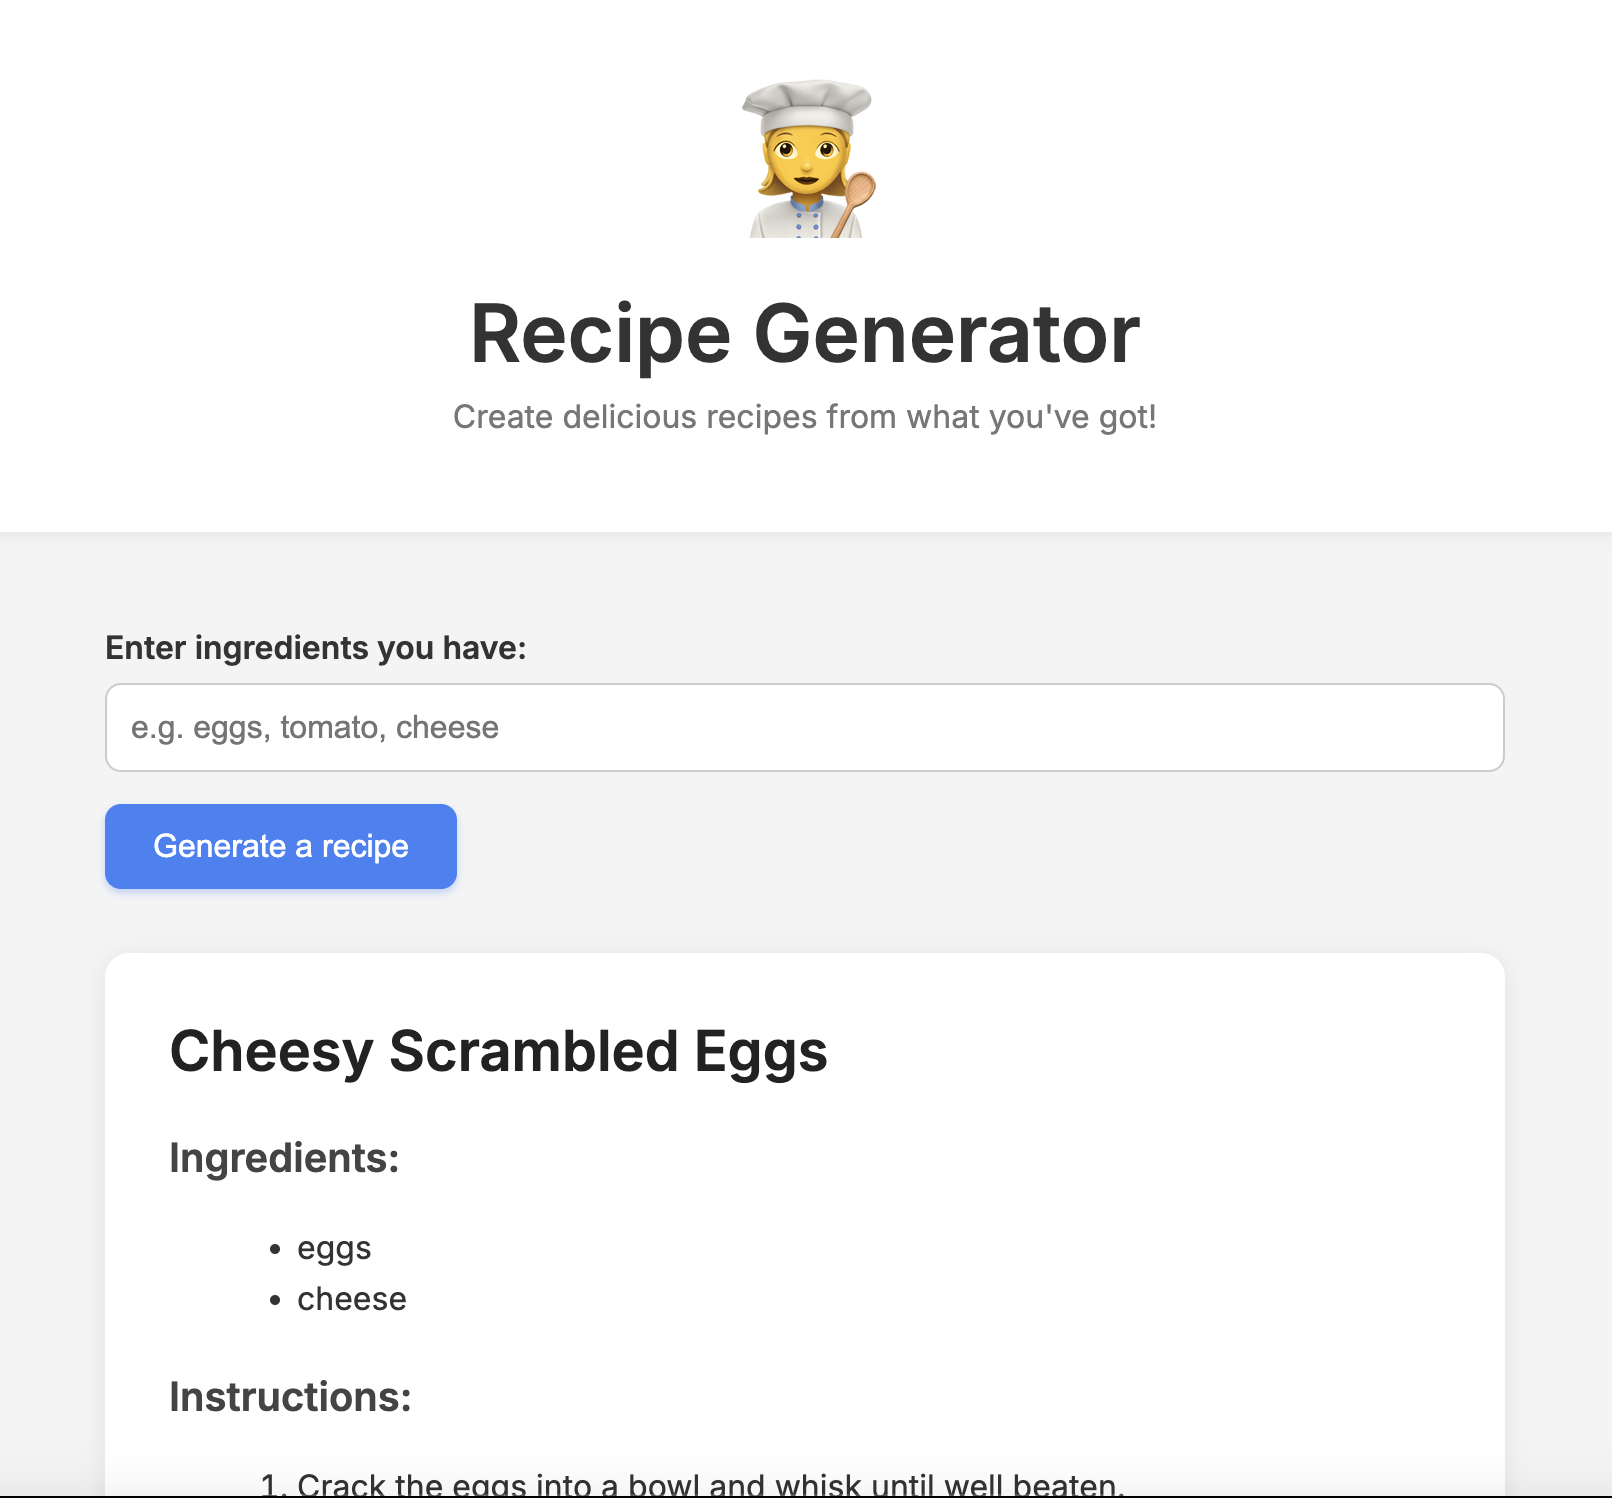
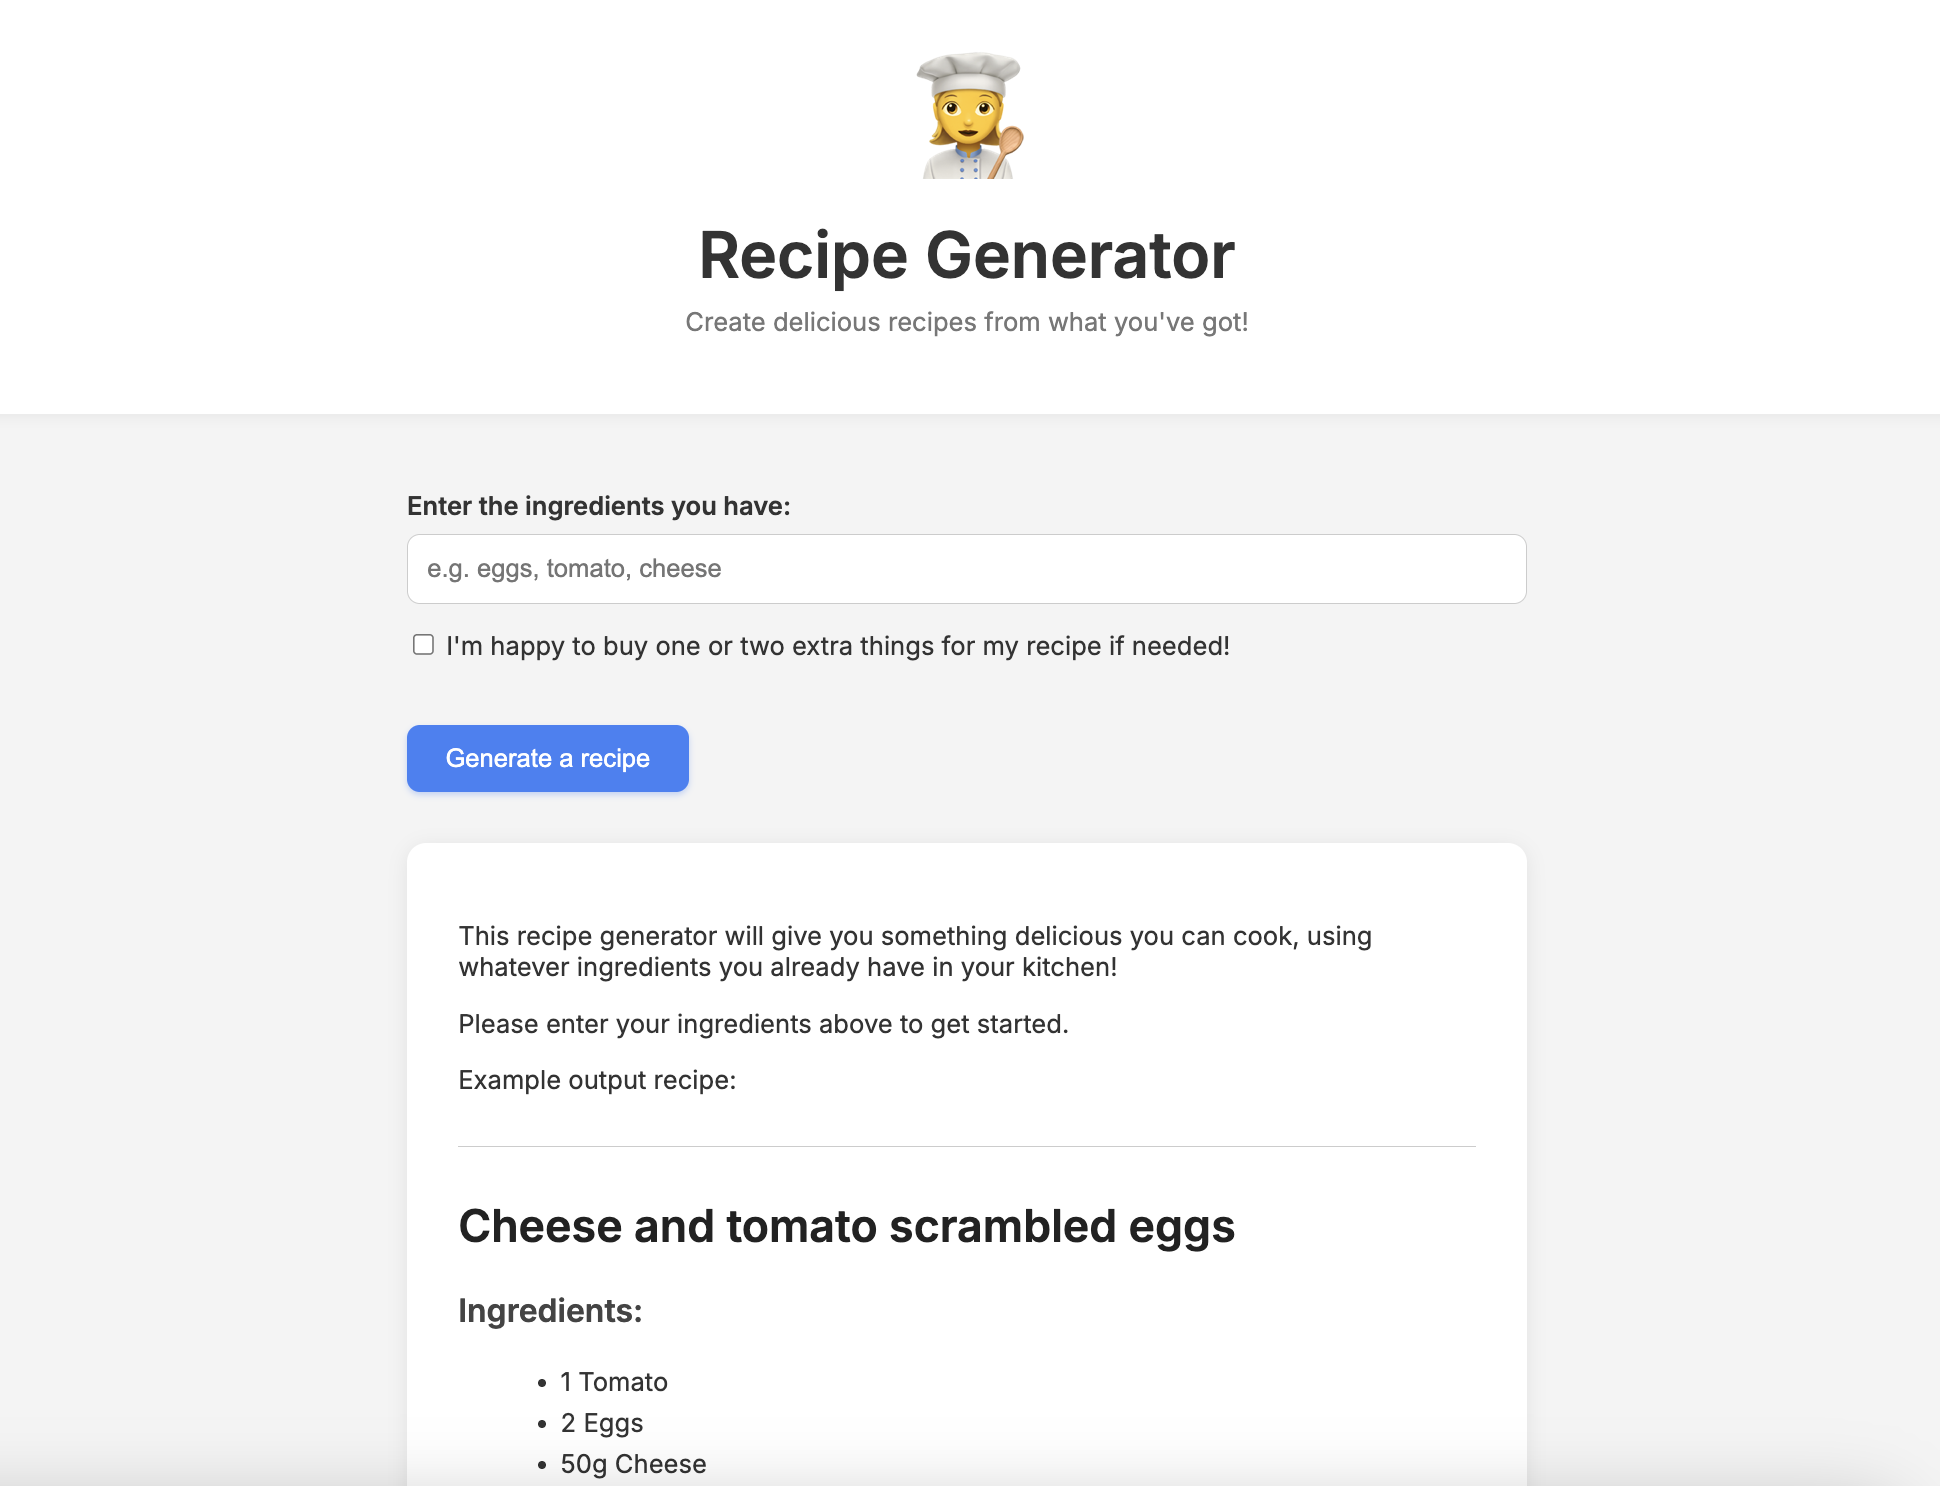
Add checkbox to generate recipes which need one or two extra ingredients

diff --git a/recipe-generator/script.js b/recipe-generator/script.js
@@ -2,6 +2,7 @@ const input = document.getElementById('ingredients');
 const button = document.querySelector('.generate-btn');
 const recipeDiv = document.getElementById('recipe');
 const spinner = document.getElementById('loading-spinner');
+const allowExtras = document.getElementById('allowExtras');
 
 button.addEventListener('click', async () => {
   const ingredients = input.value.trim();
@@ -13,7 +14,16 @@ button.addEventListener('click', async () => {
   recipeDiv.innerHTML = '';
   spinner.style.display = 'block';
 
-  try {
+  // Check if the user wants to include extra ingredients
+  const includeExtras = allowExtras.checked;
+  const basePrompt = `Here are the ingredients I have: ${ingredients}. What can I make?`;
+  const extraNote = includeExtras
+    ? 'You may include one or two additional ingredients if they will improve the recipe. Respond ONLY in JSON format.'
+    : 'Only use the ingredients provided. Respond ONLY in JSON format.';
+  const prompt = `${basePrompt} ${extraNote}`;
+
+  try { 
+    // Make the API call to OpenAI
     const response = await fetch('https://api.openai.com/v1/chat/completions', {
       method: 'POST',
       headers: {
@@ -26,11 +36,11 @@ button.addEventListener('click', async () => {
           {
             role: 'system',
             content:
-              'You are a helpful chef. Given a list of potential ingredients, return a simple recipe in JSON format with a "title", an "ingredients" array, and an "instructions" array. Please do not number the instructions. You do not need to use all the ingredients, but do not suggest a recipe which uses an ingredient we do not have.'
+              'You are a helpful chef. Given a list of potential ingredients, return a simple recipe in JSON format with a "title", an "ingredients" array, and an "instructions" array. Please do not number the instructions. You do not need to use all the ingredients. If you can make a recipe with fewer ingredients, that is fine. The recipe should be simple and easy to follow. The instructions should be clear and concise. Do not include any additional information or commentary. Just provide the JSON response.'
           },
           {
             role: 'user',
-            content: `Here are the ingredients I have: ${ingredients}. What can I make? Respond ONLY in JSON format.`
+            content: `${prompt}`
           }
         ],
         temperature: 0.7

diff --git a/recipe-generator/index.html b/recipe-generator/index.html
@@ -169,18 +169,24 @@
 
   <div class="container">
     <div class="input-section">
-      <label for="ingredients">Enter ingredients you have:</label>
+      <label for="ingredients">Enter the ingredients you have:</label>
       <input type="text" id="ingredients" placeholder="e.g. eggs, tomato, cheese" />
-      <button class="generate-btn">Generate a recipe</button>
+
+      <div style="margin-top: 0.5rem;">
+        <input type="checkbox" id="allowExtras" />
+        <label for="allowExtras" style="font-weight: normal;">I'm happy to buy one or two extra things for my recipe if needed!</label>
+      </div>
+
+      <button style="margin-top: 2rem;" class="generate-btn">Generate a recipe</button>
     </div>
 
     <div class="recipe-output" id="recipe">
-      <h4>This recipe generator will show you something you can cook with whatever you already have in your kitchen! Please enter your ingredients above.
-
-
-      </h4>
-        
-      <h2>Example Recipe: Cheese and tomato scrambled eggs</h2>
+      <p>This recipe generator will give you something delicious you can cook, using whatever ingredients you already have in your kitchen! </p>
+      <p>Please enter your ingredients above to get started.
+      </p>
+      <p>Example output recipe:</p>
+      <hr style="margin: 2rem 0; border: none; border-top: 1px solid #ccc;">
+      <h2>Cheese and tomato scrambled eggs</h2>
       <h3>Ingredients:</h3>
       <ul>
         <li>1 Tomato</li>
